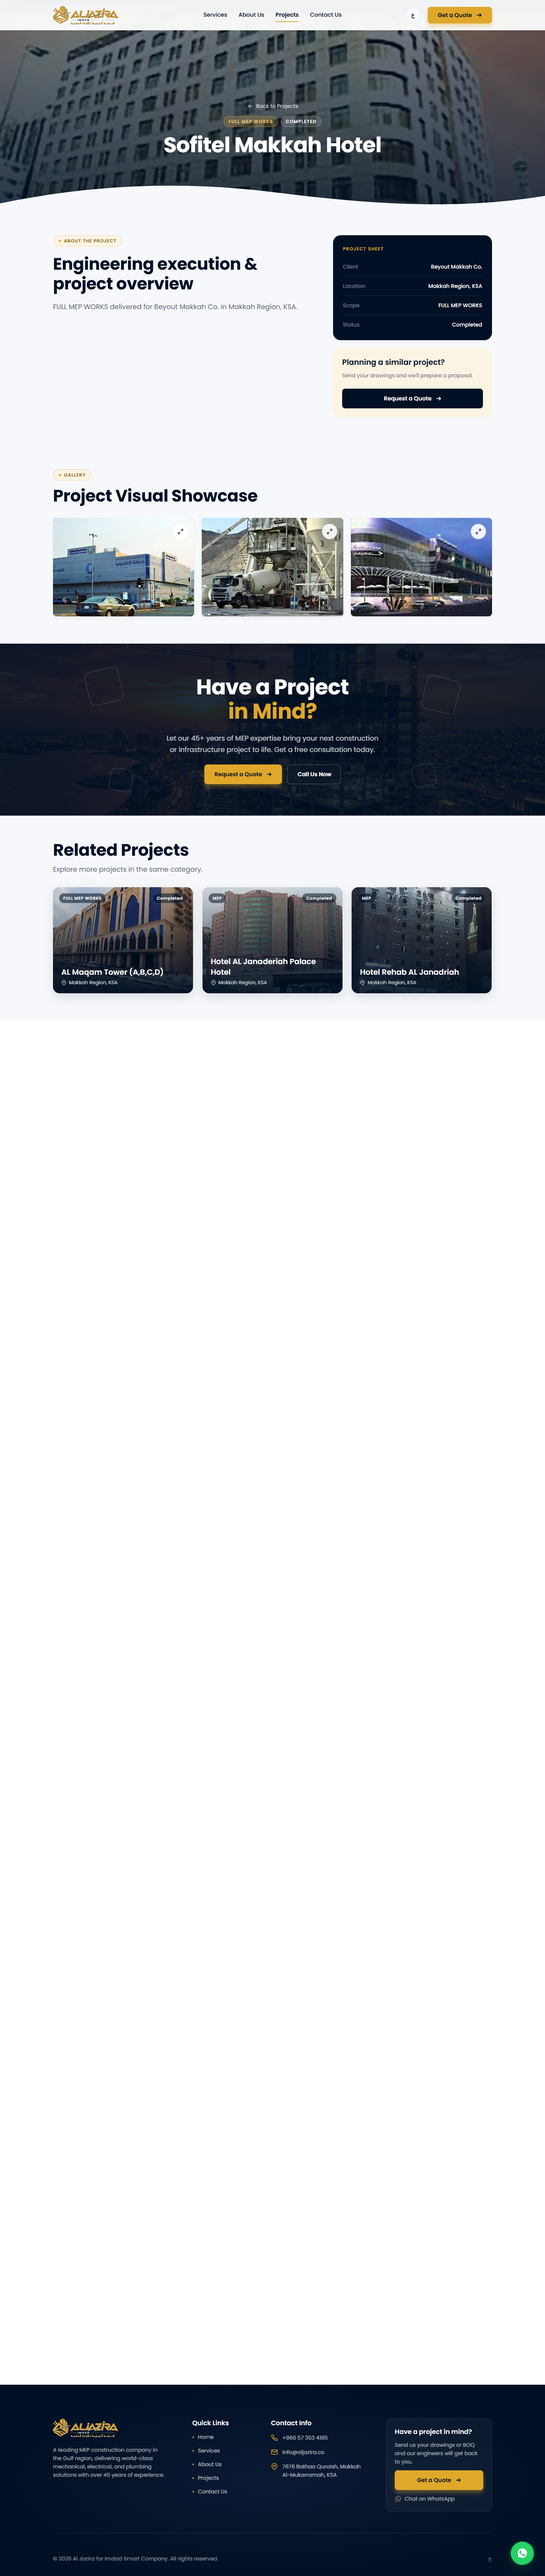
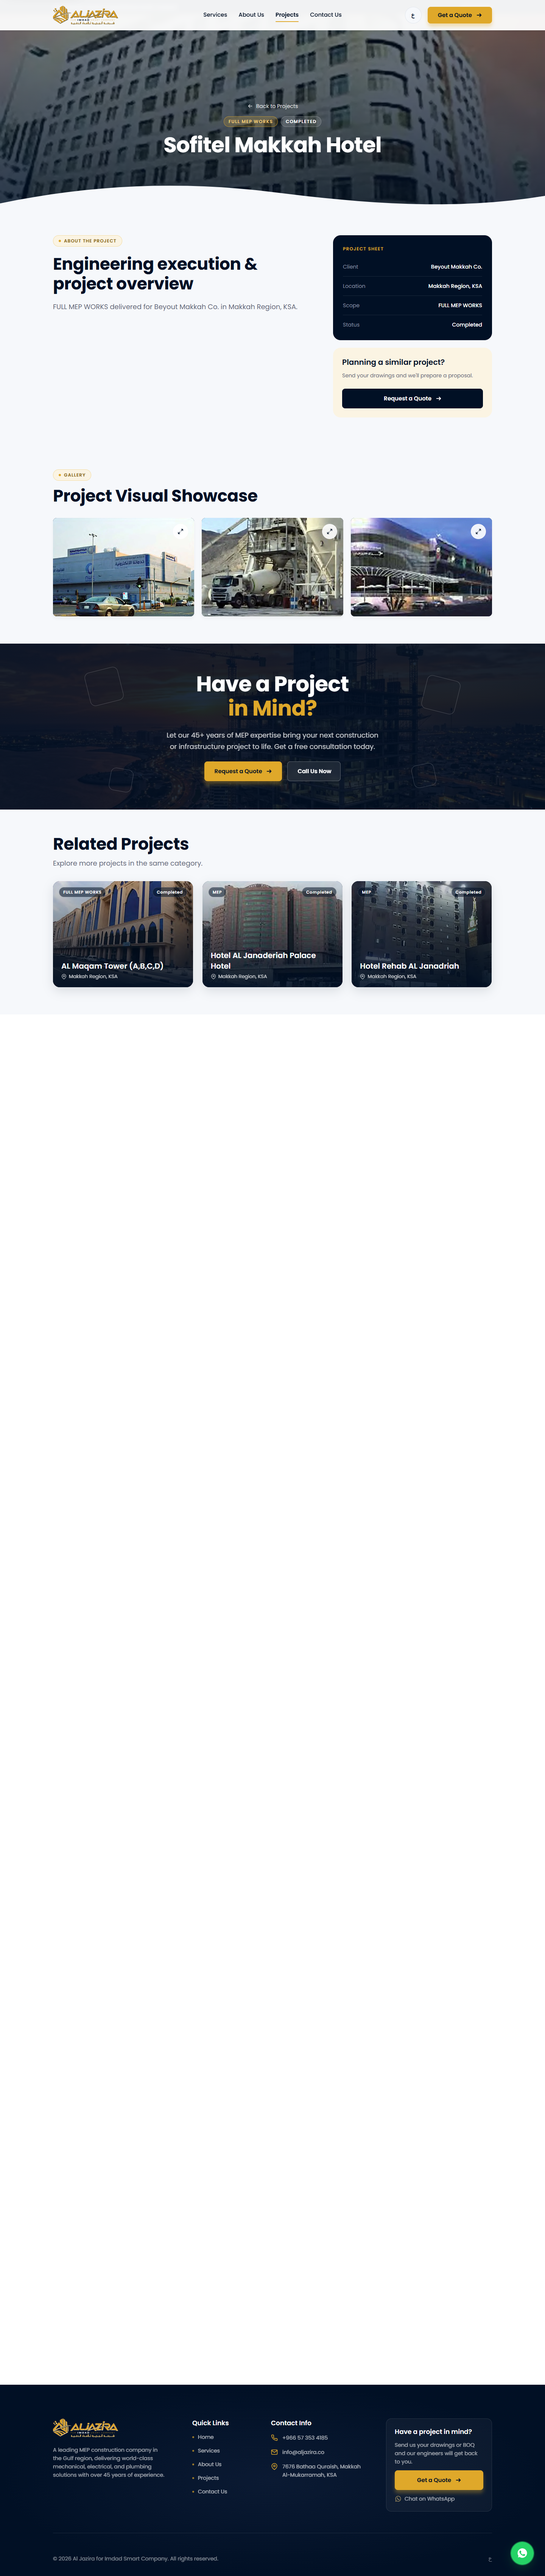
fix(projects): resolve P3-T8 round 2 findings R-74 and R-79..R-81

Changed region(s): [[0.0938, 0.2494, 0.9062, 0.4053]]

diff --git a/tests/e2e/p3-t8.e2e.spec.ts b/tests/e2e/p3-t8.e2e.spec.ts
@@ -41,6 +41,44 @@ test.describe('P3-T8 — Projects List, Project Detail, and Lightbox', () => {
 
     await page.setViewportSize({ width: 1440, height: 900 })
 
+    const cspViolations: Array<{
+      url: string
+      effectiveDirective: string
+      violatedDirective: string
+      blockedURI: string
+    }> = []
+    await page.exposeFunction(
+      '__recordCspViolation',
+      (violation: {
+        url: string
+        effectiveDirective: string
+        violatedDirective: string
+        blockedURI: string
+      }) => {
+        cspViolations.push(violation)
+      },
+    )
+    await page.addInitScript(() => {
+      window.addEventListener('securitypolicyviolation', (event) => {
+        const record = (
+          window as unknown as {
+            __recordCspViolation?: (v: {
+              url: string
+              effectiveDirective: string
+              violatedDirective: string
+              blockedURI: string
+            }) => void
+          }
+        ).__recordCspViolation
+        record?.({
+          url: window.location.pathname,
+          effectiveDirective: event.effectiveDirective,
+          violatedDirective: event.violatedDirective,
+          blockedURI: event.blockedURI,
+        })
+      })
+    })
+
     // 1. Anonymous visitor on /en/projects sees PageHeader, filter tabs, 15 cards on page 1, and pagination
     const listRes = await page.goto('/en/projects', { waitUntil: 'networkidle' })
     expect(listRes?.status()).toBe(200)
@@ -68,7 +106,7 @@ test.describe('P3-T8 — Projects List, Project Detail, and Lightbox', () => {
       'page',
     )
 
-    // 2. Anonymous visitor gets 200 for published project slugs (en and ar) and 404 for draft-only or unknown project slugs
+    // 2. Anonymous visitor gets 200 for published project slugs (en and ar) with zero CSP violations, and 404 for draft-only or unknown project slugs
     const pubProjectEnRes = await page.goto('/en/projects/sofitel-makkah-hotel', {
       waitUntil: 'networkidle',
     })
@@ -76,12 +114,16 @@ test.describe('P3-T8 — Projects List, Project Detail, and Lightbox', () => {
     await expect(page.locator('[data-section="project-hero"] h1')).toContainText(
       'Sofitel Makkah Hotel',
     )
+    await expect(page.locator('img[style]')).toHaveCount(0)
+    expect(cspViolations).toEqual([])
 
     const pubProjectArRes = await page.goto('/ar/projects/sofitel-makkah-hotel', {
       waitUntil: 'networkidle',
     })
     expect(pubProjectArRes?.status()).toBe(200)
     await expect(page.locator('html')).toHaveAttribute('dir', 'rtl')
+    await expect(page.locator('img[style]')).toHaveCount(0)
+    expect(cspViolations).toEqual([])
 
     const draftSlugRes = await page.goto('/en/projects/princess-noura-university-pnu', {
       waitUntil: 'networkidle',
@@ -179,6 +221,7 @@ test.describe('P3-T8 — Projects List, Project Detail, and Lightbox', () => {
       const arListRes = await page.goto('/ar/projects', { waitUntil: 'networkidle' })
       expect(arListRes?.status()).toBe(200)
       await expect(page.locator('html')).toHaveAttribute('dir', 'rtl')
+      expect(cspViolations).toEqual([])
     } finally {
       await page.request.patch(`${resolvedBase}/api/projects/${String(sofitelDoc.id)}?locale=en`, {
         headers: {

diff --git a/src/app/(frontend)/[locale]/projects/[slug]/page.tsx b/src/app/(frontend)/[locale]/projects/[slug]/page.tsx
@@ -288,9 +288,9 @@ export default async function ProjectDetailPageRoute({
   const { isEnabled: isDraftMode } = await draftMode()
 
   const [projectsPage, homePage, relatedProjects] = await Promise.all([
-    getProjectsPage(locale).catch(() => null),
-    getHomePage(locale).catch(() => null),
-    getRelatedProjects(locale, project.category, project.slug, 3).catch(() => []),
+    getProjectsPage(locale),
+    getHomePage(locale),
+    getRelatedProjects(locale, project.category, project.slug, 3),
   ])
 
   const dict = getDictionary(locale)
@@ -376,7 +376,7 @@ export default async function ProjectDetailPageRoute({
     ? project.deliverables.filter((d) => typeof d.text === 'string' && d.text.trim().length > 0)
     : []
   const deliverablesBgMedia = resolveMediaAsset(
-    homePage?.statsSection?.backgroundImage,
+    homePage.statsSection?.backgroundImage,
     dict.projects.detail.deliverablesHeading,
     'hero',
   )
@@ -424,7 +424,8 @@ export default async function ProjectDetailPageRoute({
               <CspSafeImage
                 src={coverMedia.url}
                 alt={coverMedia.alt}
-                fill
+                width={coverMedia.width ?? 1440}
+                height={coverMedia.height ?? 560}
                 preload
                 fetchPriority="high"
                 sizes="100vw"
@@ -591,7 +592,8 @@ export default async function ProjectDetailPageRoute({
                 <CspSafeImage
                   src={deliverablesBgMedia.url}
                   alt=""
-                  fill
+                  width={deliverablesBgMedia.width ?? 1440}
+                  height={deliverablesBgMedia.height ?? 425}
                   sizes="100vw"
                   className={styles.deliverablesBgImage}
                 />
@@ -693,7 +695,12 @@ export default async function ProjectDetailPageRoute({
         ) : null}
 
         {/* Section 5: CTA (20:995) */}
-        <CtaBand cta={projectsPage?.cta} locale={locale} fallbackBackgroundSrc={coverMedia?.url} />
+        <CtaBand
+          cta={projectsPage.cta}
+          locale={locale}
+          fallbackBackgroundSrc={coverMedia?.url}
+          compact
+        />
 
         {/* Section 6: Related Projects (20:1009) */}
         {relatedProjects.length > 0 ? (

diff --git a/src/components/CtaBand.tsx b/src/components/CtaBand.tsx
@@ -79,13 +79,19 @@ export interface CtaBandProps {
   cta?: CtaBandData | null
   locale: SupportedLocale
   fallbackBackgroundSrc?: string
+  compact?: boolean
 }
 
 /**
  * Shared CTA Band section (`18:660`, `24:1677`, `19:639`, `20:1013`) used on
  * Services, Service Detail, Projects, and Project Detail pages.
  */
-export function CtaBand({ cta, locale, fallbackBackgroundSrc }: CtaBandProps): JSX.Element | null {
+export function CtaBand({
+  cta,
+  locale,
+  fallbackBackgroundSrc,
+  compact = false,
+}: CtaBandProps): JSX.Element | null {
   if (!cta || cta.enabled === false) {
     return null
   }
@@ -110,7 +116,10 @@ export function CtaBand({ cta, locale, fallbackBackgroundSrc }: CtaBandProps): J
   }
 
   return (
-    <section className={styles.ctaSection} data-theme="dark">
+    <section
+      className={`${styles.ctaSection}${compact ? ` ${styles.ctaSectionCompact}` : ''}`}
+      data-theme="dark"
+    >
       <div className={styles.ctaBgLayer} aria-hidden="true">
         {bgSrc ? (
           <CspSafeImage

diff --git a/src/p3-t8-projects.test.ts b/src/p3-t8-projects.test.ts
@@ -155,6 +155,7 @@ describe('P3-T8 — Projects list, Project detail, and Lightbox', () => {
     expect(galleryHtmlEn).toContain('data-gallery-item="1"')
     expect(galleryHtmlEn).toContain('data-gallery-item="2"')
     expect(galleryHtmlEn).toContain('aria-label="Open image 1 of 3 in lightbox"')
+    expect(galleryHtmlEn).not.toContain('style=')
 
     const lightboxHtmlEn = renderToStaticMarkup(
       React.createElement(Lightbox, {
@@ -169,6 +170,7 @@ describe('P3-T8 — Projects list, Project detail, and Lightbox', () => {
     expect(lightboxHtmlEn).toContain('aria-modal="true"')
     expect(lightboxHtmlEn).toContain('data-component="lightbox"')
     expect(lightboxHtmlEn).toContain('1 / 3  ·  Main Mechanical Plant Room')
+    expect(lightboxHtmlEn).not.toContain('style=')
     expect(lightboxHtmlEn).toContain('data-lightbox-close')
     expect(lightboxHtmlEn).toContain('data-lightbox-prev')
     expect(lightboxHtmlEn).toContain('data-lightbox-next')

diff --git a/src/app/(frontend)/[locale]/projects/page.tsx b/src/app/(frontend)/[locale]/projects/page.tsx
@@ -564,7 +564,8 @@ export default async function ProjectsPageRoute({
                 <CspSafeImage
                   src={impactBgMedia.url}
                   alt=""
-                  fill
+                  width={impactBgMedia.width ?? 1440}
+                  height={impactBgMedia.height ?? 421}
                   sizes="100vw"
                   className={styles.impactBgImage}
                 />

diff --git a/src/components/CtaBand.module.css b/src/components/CtaBand.module.css
@@ -6,6 +6,10 @@
   overflow: hidden;
 }
 
+.ctaSectionCompact {
+  padding-block: 75px;
+}
+
 .ctaBgLayer {
   position: absolute;
   inset: 0;
@@ -108,8 +112,8 @@
 }
 
 .ctaSecondaryButton {
-  background-color: transparent;
-  border-color: var(--glass-border-white-30);
+  background-color: var(--glass-white-8);
+  border-color: var(--glass-border-white-28);
 }
 
 @media (max-width: 1279.98px) {

diff --git a/src/app/(frontend)/[locale]/projects/[slug]/page.module.css b/src/app/(frontend)/[locale]/projects/[slug]/page.module.css
@@ -36,9 +36,12 @@
 }
 
 .heroImage {
+  position: absolute;
+  inset: 0;
   inline-size: 100%;
   block-size: 100%;
   object-fit: cover;
+  display: block;
 }
 
 .heroOverlay {
@@ -288,7 +291,12 @@
 }
 
 .deliverablesBgImage {
+  position: absolute;
+  inset: 0;
+  inline-size: 100%;
+  block-size: 100%;
   object-fit: cover;
+  display: block;
 }
 
 .deliverablesOverlay {

diff --git a/src/components/CspSafeImage.tsx b/src/components/CspSafeImage.tsx
@@ -35,7 +35,7 @@ export function DraftImageBypassProvider({
   )
 }
 
-export type CspSafeImageProps = Omit<ImageProps, 'style'>
+export type CspSafeImageProps = Omit<ImageProps, 'style' | 'fill'>
 
 export function CspSafeImage({ alt, unoptimized, ...rest }: CspSafeImageProps): JSX.Element {
   const isDraftBypass = useContext(DraftImageBypassContext)

diff --git a/src/app/(frontend)/[locale]/projects/page.module.css b/src/app/(frontend)/[locale]/projects/page.module.css
@@ -229,7 +229,12 @@
 }
 
 .impactBgImage {
+  position: absolute;
+  inset: 0;
+  inline-size: 100%;
+  block-size: 100%;
   object-fit: cover;
+  display: block;
 }
 
 .impactOverlay {
